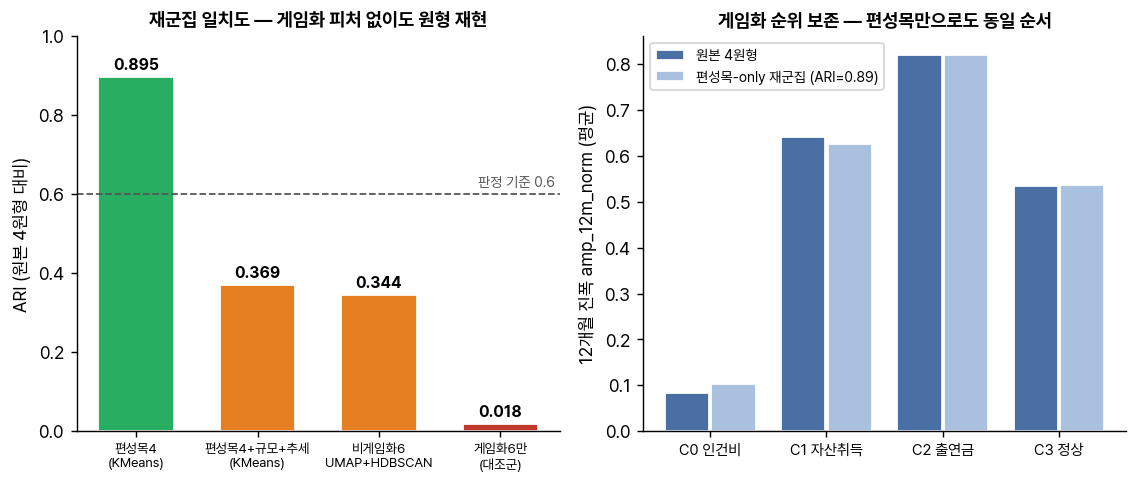
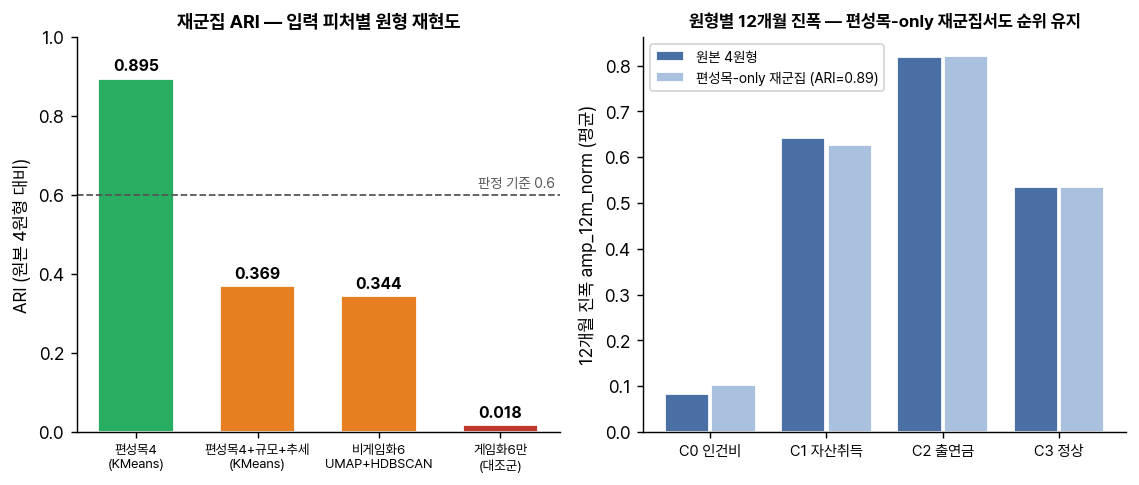
robustness 절 통합 + 12월 비중 수치 정정 전파
- main_v2.typ: §"식별 견고성 검증"(C4 순환성·C7 층 직교성·C6 시점 외생성) 신규 절 + 그림 3개 참조
- robust_c7_orthogonality.py: EP 가중 Cramér's V·비C3 부분집합 연관 추가 → association_stats.csv +4행
- robust_figures.py: 그림 마무리 → robust_c4/c6/c7 png 갱신
- 12월 비중 정정(통일·외교 100%·IQR 30%p → 국방 17.0%·사회복지 7.8%·IQR 15%p) 전파:
  main_v2.typ §6.1 EDA + 각주, build_wireframes.py 슬라이드 KPI, fig_slide32 EDA 그림

diff --git a/scripts/2_archetype/robust_figures.py b/scripts/2_archetype/robust_figures.py
@@ -78,7 +78,7 @@ ax.set_xticks(range(4))
 ax.set_xticklabels(labels, fontsize=7.5)
 ax.set_ylim(0, 1.0)
 ax.set_ylabel('ARI (원본 4원형 대비)')
-ax.set_title('재군집 일치도 — 게임화 피처 없이도 원형 재현', fontsize=10.5, fontweight='bold')
+ax.set_title('재군집 ARI — 입력 피처별 원형 재현도', fontsize=10.5, fontweight='bold')
 ax.spines[['top', 'right']].set_visible(False)
 
 # 우: amp_12m 원본 vs 편성목-only 재군집
@@ -91,7 +91,7 @@ ax.bar(x + 0.2, [recl[i] for i in order], 0.38, label=f'편성목-only 재군집
 ax.set_xticks(x)
 ax.set_xticklabels([ARCH_KR[i] for i in order], fontsize=8.5)
 ax.set_ylabel('12개월 진폭 amp_12m_norm (평균)')
-ax.set_title('게임화 순위 보존 — 편성목만으로도 동일 순서', fontsize=10.5, fontweight='bold')
+ax.set_title('원형별 12개월 진폭 — 편성목-only 재군집서도 순위 유지', fontsize=9.8, fontweight='bold')
 ax.legend(fontsize=8, loc='upper left')
 ax.spines[['top', 'right']].set_visible(False)
 fig.tight_layout()
@@ -130,9 +130,10 @@ for ax, tab, ttl in [(axes[0], ct, '활동 수 가중'), (axes[1], ctep, 'EP(집
         tls[idx].set_fontweight('bold')
 axes[0].legend(ncol=4, fontsize=7.5, loc='upper center', bbox_to_anchor=(1.05, 1.12),
                frameon=False)
-fig.suptitle(f"분야 × 사업원형 — 약한 연관 (Cramér's V={stats['cramers_v_corrected']:.2f}, "
-             f"NMI={stats['nmi']:.3f}) · 16/16 분야 C3(정상) 다수 · 사회복지(빨강) 게임화원형 과소노출",
-             fontsize=9.5, y=1.0)
+fig.suptitle(f"분야 × 사업원형 — 중간 연관 (활동수 Vc={stats['cramers_v_corrected']:.2f}·"
+             f"EP가중 Vc={stats['cramers_v_ep_corrected']:.2f}, p<1e-29) · "
+             f"완전 직교 아님 · 사회복지(빨강) 게임화원형 과소노출",
+             fontsize=9.3, y=1.0)
 fig.tight_layout(rect=[0, 0, 1, 0.96])
 savep(fig, 'robust_c7_field_archetype.png')
 
@@ -174,7 +175,7 @@ ax.text(1, 100 / 12 + 0.4, '균등 8.3%', fontsize=8, color=ACC)
 ax.set_xticks(months)
 ax.set_xlabel('집행 월')
 ax.set_ylabel('월별 집행 비중 (%)')
-ax.set_title('사회복지 월별 평탄 (12월 11.3%, 점프 미미)', fontsize=10.5, fontweight='bold')
+ax.set_title('사회복지 월별 — 12월 소폭(11.3%), 국방 대비 평탄', fontsize=10.0, fontweight='bold')
 ax.legend(fontsize=8.5, loc='upper center')
 ax.spines[['top', 'right']].set_visible(False)
 fig.tight_layout()

diff --git a/scripts/2_archetype/robust_c7_orthogonality.py b/scripts/2_archetype/robust_c7_orthogonality.py
@@ -92,6 +92,19 @@ ctep_pct = ctep.div(ctep.sum(axis=1), axis=0).mul(100).round(1)
 print(ctep_pct.to_string())
 overall_ep = (df.groupby('arch')['ep'].sum() / df['ep'].sum() * 100).reindex(list(ARCH_KR.values())).round(1)
 print(f'\n  전체 EP 평균 원형 믹스(%): {dict(overall_ep)}')
+# EP 가중 Cramér's V (집행액을 빈도처럼 χ²) — 소수 초대형 계정 영향 주의
+ctep_round = ctep.round().astype('int64')
+chi2e, pe, dofe, Ve, Vce = cramers_v(ctep_round[ctep_round.sum(axis=1) > 0])
+print(f'  EP 가중 Cramér\'s V = {Ve:.3f} (보정 {Vce:.3f})  '
+      f'[주의: 경찰 인건비 등 소수 초대형 계정 지배 → 예산 집중도 반영]')
+# 비C3(소수 원형) 하위집합 연관 — 기저율 억제 제거
+sub = df[df['arch'] != 'C3정상']
+ctsub = pd.crosstab(sub['FLD_NM'], sub['arch'])
+ctsub = ctsub[ctsub.sum(axis=1) >= 5]
+chi2s, ps, dofs, Vs, Vcs = cramers_v(ctsub)
+nmisub = normalized_mutual_info_score(sub['FLD_NM'], sub['arch'])
+print(f'  비C3(소수원형 {len(sub)}개) 하위집합: Cramér\'s V 보정 = {Vcs:.3f}, NMI = {nmisub:.3f}  '
+      f'(C3 기저율 75.5% 억제 제거 시 연관 강화)')
 
 # ── 분야별 우세 원형 & 집중도 ────────────────────────────────
 print('\n' + '-' * 74)
@@ -138,6 +151,10 @@ ctep_pct.to_csv(os.path.join(RES, 'robust_c7_field_archetype_ep_pct.csv'), encod
 pd.DataFrame([{'metric': 'chi2', 'value': chi2}, {'metric': 'dof', 'value': dof},
               {'metric': 'p', 'value': p}, {'metric': 'cramers_v', 'value': V},
               {'metric': 'cramers_v_corrected', 'value': Vc},
-              {'metric': 'nmi', 'value': nmi}]).to_csv(
+              {'metric': 'nmi', 'value': nmi},
+              {'metric': 'cramers_v_ep', 'value': Ve},
+              {'metric': 'cramers_v_ep_corrected', 'value': Vce},
+              {'metric': 'cramers_v_nonC3_corrected', 'value': Vcs},
+              {'metric': 'nmi_nonC3', 'value': nmisub}]).to_csv(
     os.path.join(RES, 'robust_c7_association_stats.csv'), index=False, encoding='utf-8-sig')
 print(f'\n  저장: robust_c7_field_archetype_pct.csv / _ep_pct.csv / _association_stats.csv')

diff --git a/scripts/_archive/build_wireframes.py b/scripts/_archive/build_wireframes.py
@@ -379,13 +379,13 @@ def slide_09():  # 기능을 떼어내본다
 {kpi_box(1380, 240, 460, 580, [
     '@분야 수                 14',
     '@최대–최소 격차',
-    '통일·외교  100%',
-    '사회복지   13.4%',
-    '!≈ × 7.5',
-    '@상위 분야 (작은 사업)',
-    '12월 비중 50%+',
+    '국방(최고)  17.0%',
+    '사회복지   7.8%',
+    '!≈ × 2.2',
+    '@상위 분야',
+    '국방 12월 19.7%',
     '@부록 App-C',
-    '분야 내 분산 IQR ~30%p',
+    '분야 내 분산 IQR ~15%p',
 ])}
 
 {key_line("분야는 균질한 단위가 아니다 — 작은 사업이 많은 분야가 12월에 쏠리고, 분야 안에서도 패턴이 갈린다.", y=900, fs=22)}
